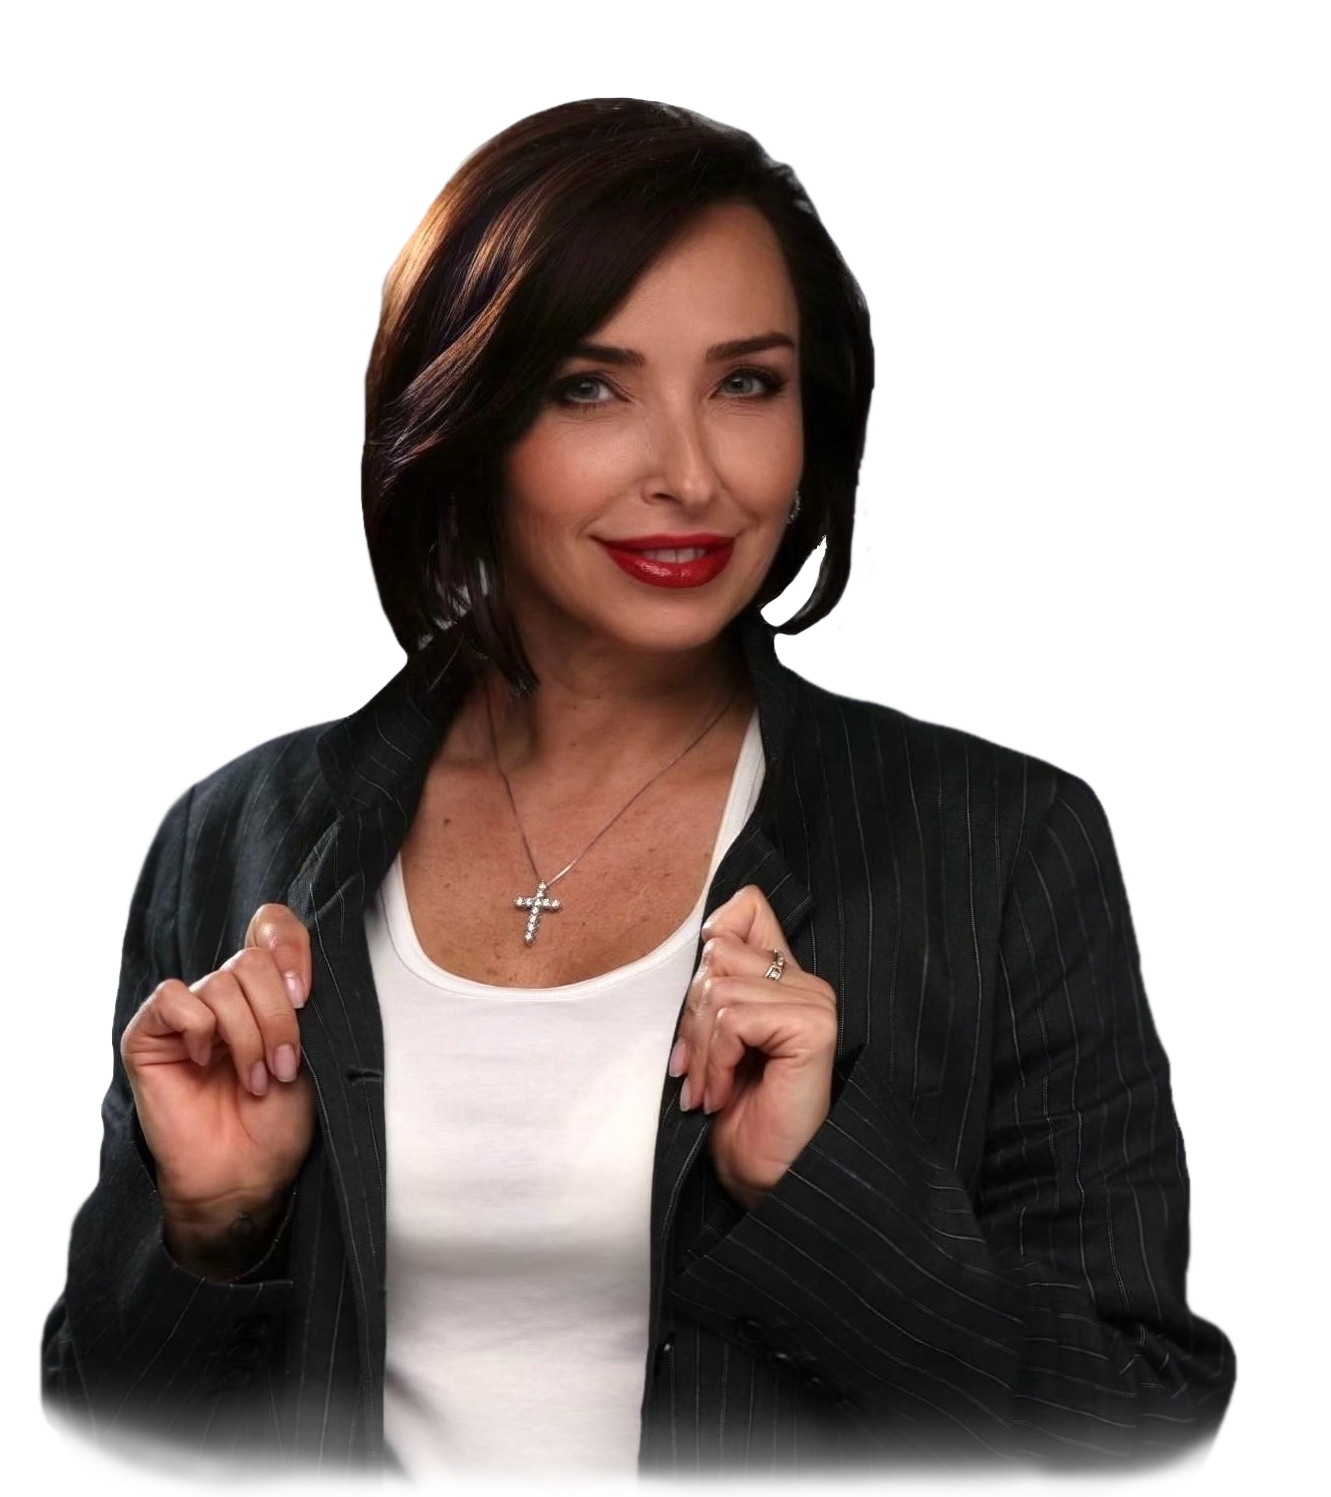
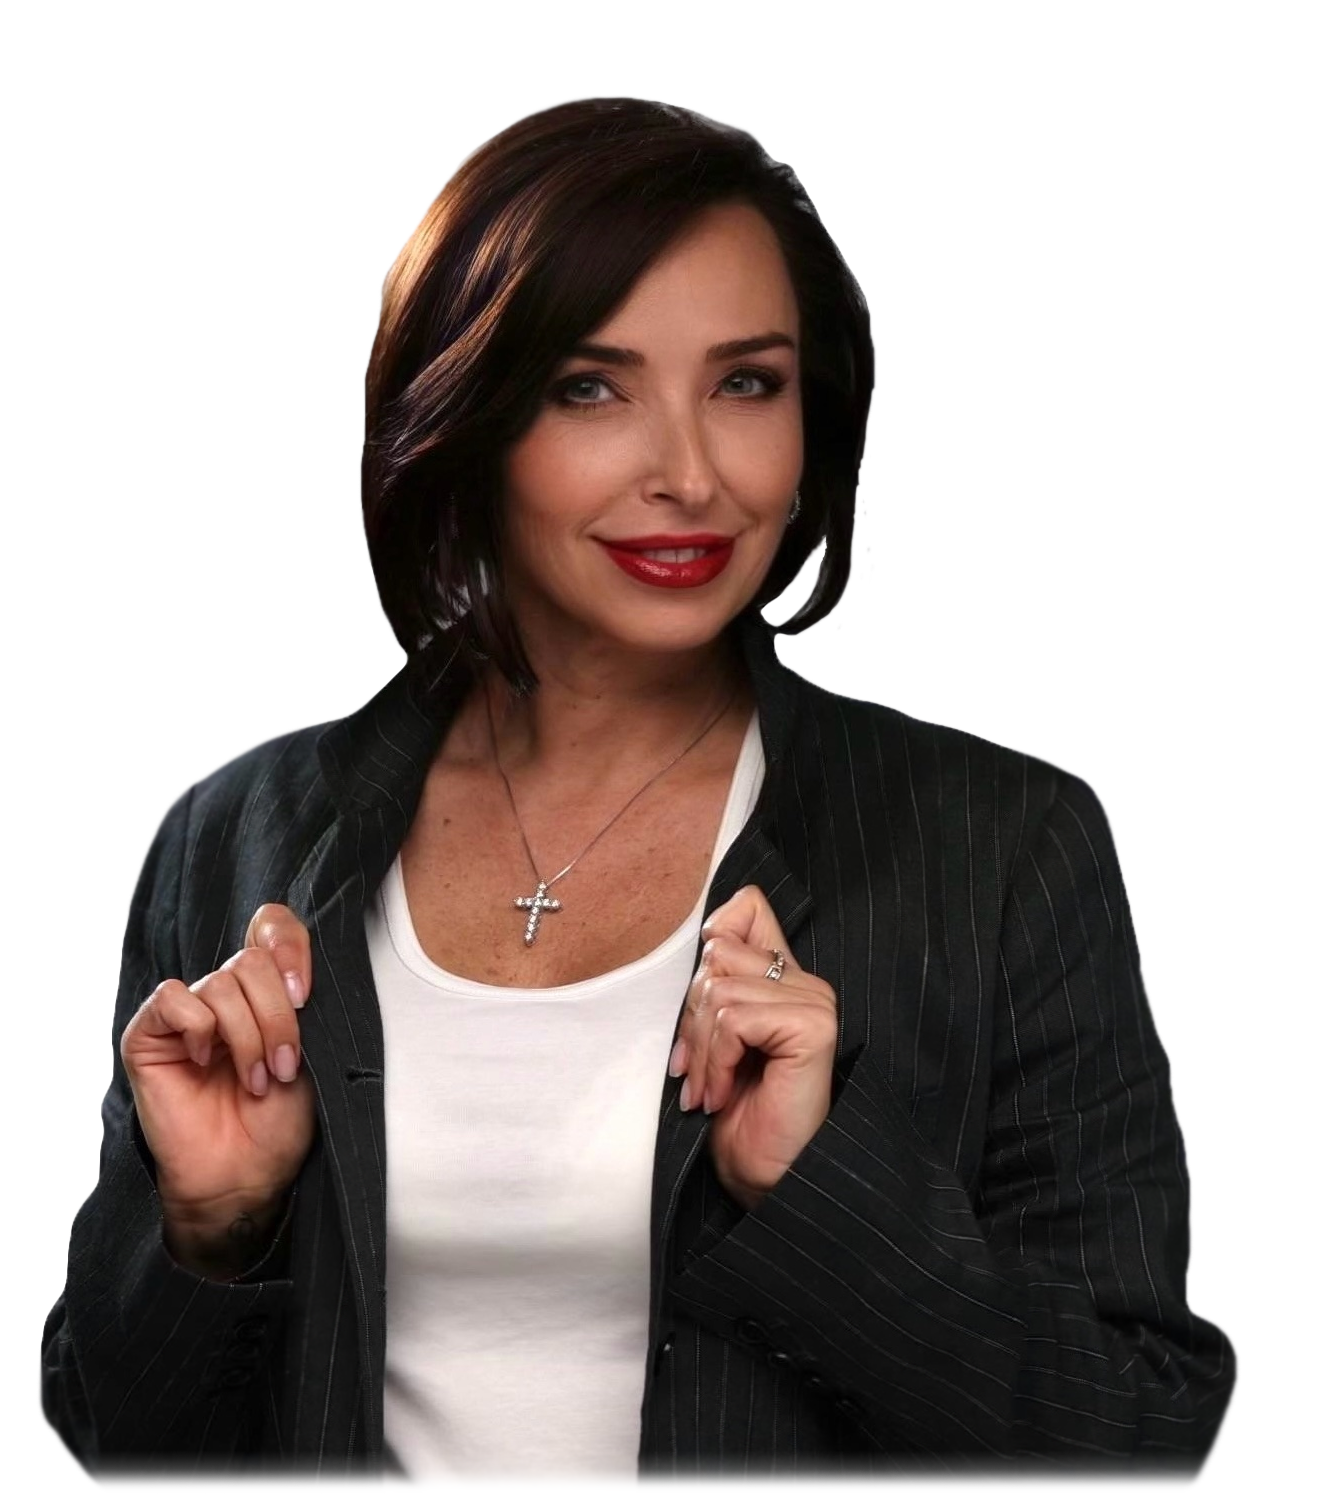
меню + форма

Changed region(s): [[0.4621, 0.9218, 0.9241, 1.0], [0.0308, 0.9218, 0.308, 1.0]]

diff --git a/index.html b/index.html
@@ -40,23 +40,23 @@
 <!-- Mobile Menu -->
 <nav class="navbar navbar-expand-md fixed-top d-md-none" style="background: rgba(13, 26, 73, 0.95); backdrop-filter: blur(20px);">
     <div class="container-fluid px-0">
-        <a class="navbar-brand text-white" href="#" data-key="site-title">Цифровая Родология</a>
+        <a class="ps-4 navbar-brand text-white" href="#" data-key="site-title">Цифровая Родология</a>
         <button class="navbar-toggler" type="button" data-bs-toggle="collapse" data-bs-target="#navbarNav" aria-controls="navbarNav" aria-expanded="false" aria-label="Toggle navigation">
             <span class="navbar-toggler-icon text-white">☰</span>
         </button>
         <div class="collapse navbar-collapse" id="navbarNav">
             <ul class="navbar-nav">
                 <li class="nav-item">
-                    <a class="nav-link text-white" href="#home" data-key="menu-home-text">Главная</a>
+                    <a class="ps-4 nav-link text-white" href="#home" data-key="menu-home-text">Главная</a>
                 </li>
                 <li class="nav-item">
-                    <a class="nav-link text-white" href="#pricing" data-key="menu-services-text">Тарифы</a>
+                    <a class="ps-4 nav-link text-white" href="#pricing" data-key="menu-services-text">Тарифы</a>
                 </li>
                 <li class="nav-item">
-                    <a class="nav-link text-white" href="#about" data-key="menu-about-text">О методе</a>
+                    <a class="ps-4 nav-link text-white" href="#about" data-key="menu-about-text">О методе</a>
                 </li>
                 <li class="nav-item">
-                    <a class="nav-link text-white" href="#contact" data-key="menu-contact-text">Контакты</a>
+                    <a class="ps-4 nav-link text-white" href="#contact" data-key="menu-contact-text">Контакты</a>
                 </li>
                 <!-- Переключатель языков в мобильном меню -->
                 <li class="nav-item">
@@ -102,7 +102,7 @@
             <!-- Изображение - на мобиле второй -->
             <div class="col-lg-6 order-1 order-lg-2">
                 <div class="hero-image text-center">
-                    <img src="img/Avtor.png" alt="Вероника Задорожная" class="img-fluid rounded-4 " style="max-height: 600px;">
+                    <img src="img/Avtor2.png" alt="Вероника Задорожная" class="img-fluid rounded-4 " style="max-height: 600px;">
                 </div>
             </div>
         </div>
